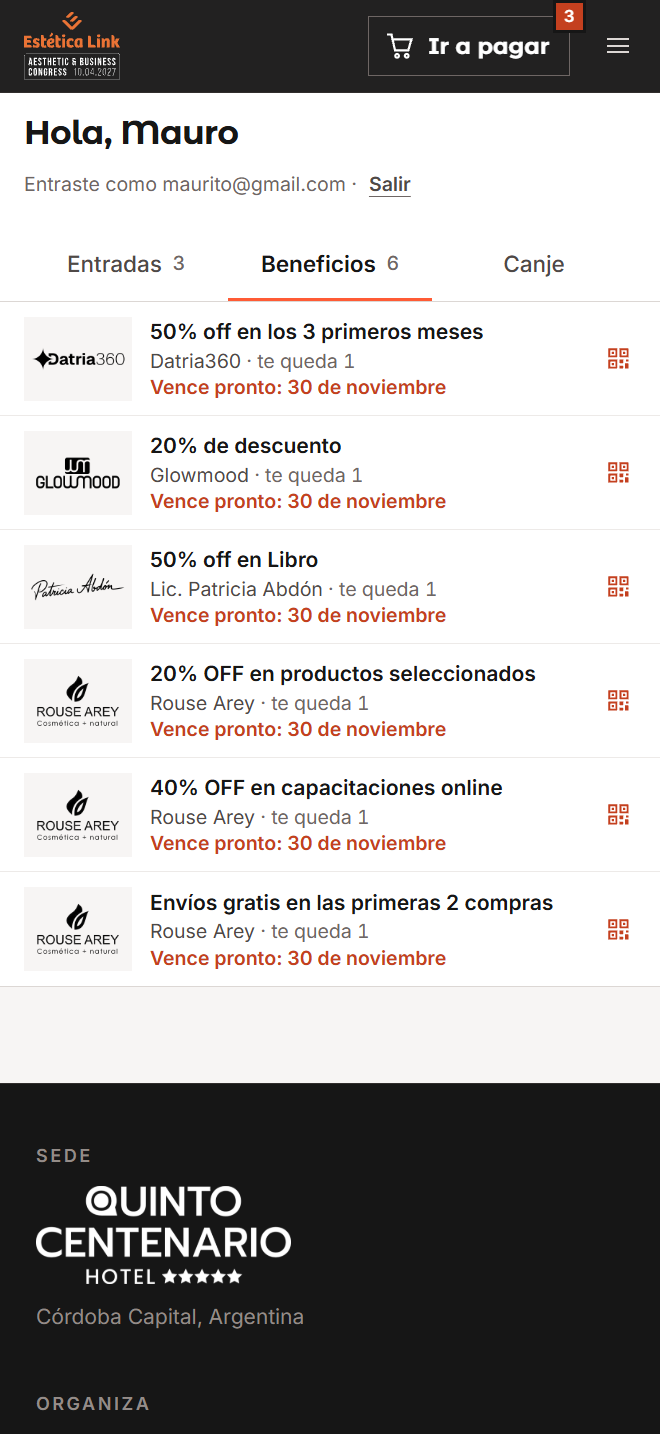
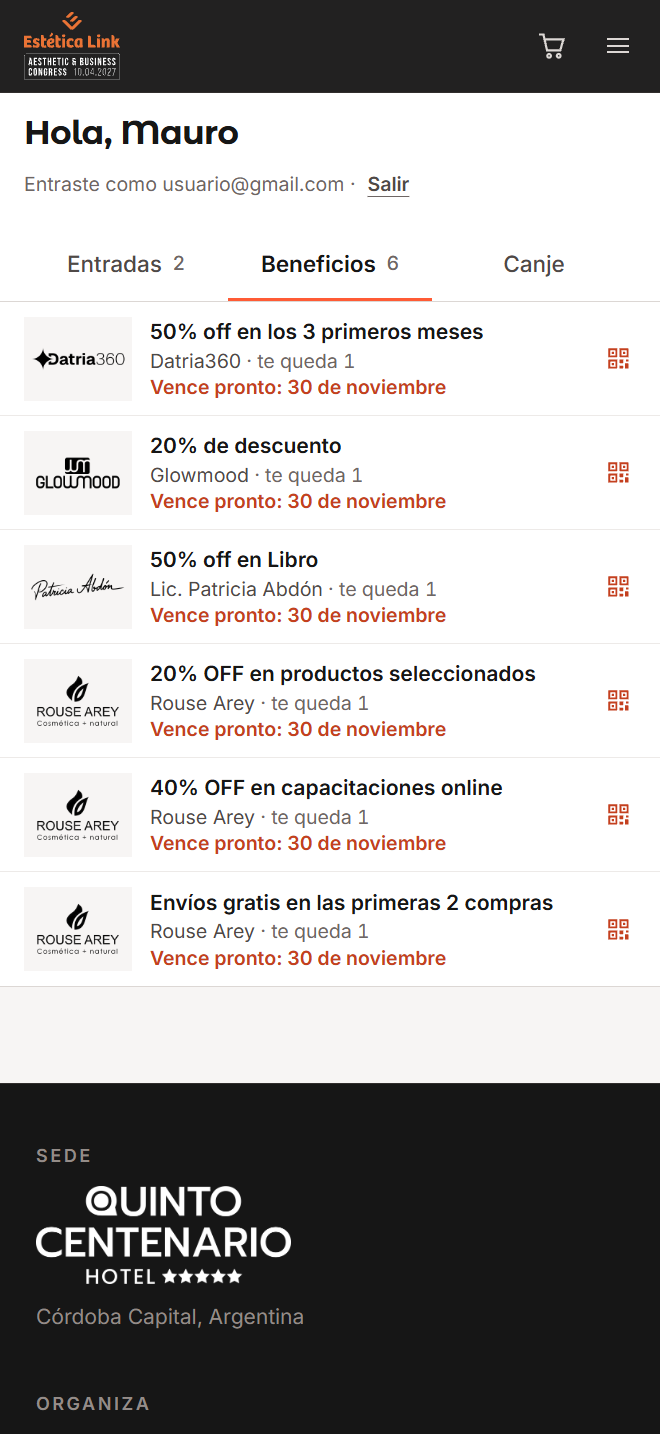
Portrait in the last 60 s step; new Estética Link benefits screenshots

Changed region(s): [[0.6061, 0.0, 0.8788, 0.0614], [0.2424, 0.1227, 0.5152, 0.1534], [0.5455, 0.1227, 0.6364, 0.1534]]

diff --git a/public/site.js b/public/site.js
@@ -313,7 +313,7 @@
       .concat([[t('bld.label'), t('bld.h2'), t('bld.sub'), '→ ' + (MI.building || []).join(' · ')]])
       .concat([[t('hl.range.k'), t('hl.range.h'), t('hl.range.p'), '→ ' + t('hero.avail')]]);
     steps.innerHTML = S.map(([k, h, p, ph], i) => `<div class="hlo-step${i ? '' : ' on'}"><span class="label">${k}</span><h2${i ? '' : ' id="hlo-t"'}>${h}</h2>${p ? `<p>${p}</p>` : ''}<span class="ph">${ph}</span></div>`).join('')
-      + `<div class="hlo-step"><span class="label">${t('hl.next')}</span><h2>${t('cta.h')}</h2><div class="cta-row"><a class="btn-p" href="#contact" data-close>${t('cta.btn')}</a><a class="btn-s" href="#work" data-close>${t('work.all')}</a></div></div>`;
+      + `<div class="hlo-step hlo-end">${MI.portrait ? `<img class="hlo-me" src="${MI.portrait.src}" srcset="${MI.portrait.src} 1x, ${MI.portrait.src2} 2x" width="${MI.portrait.w}" height="${MI.portrait.h}" alt="${t('portrait')}" decoding="async">` : ''}<span class="label">${t('hl.next')}</span><h2>${t('cta.h')}</h2><div class="cta-row"><a class="btn-p" href="#contact" data-close>${t('cta.btn')}</a><a class="btn-s" href="#work" data-close>${t('work.all')}</a></div></div>`;
     steps.querySelectorAll('[data-close]').forEach(a => a.addEventListener('click', closeHl));
   }
   if (document.getElementById('fHl')) {

diff --git a/public/site.css b/public/site.css
@@ -254,6 +254,7 @@ h3 { margin: 0; }
 .hlo-step h2 { font-size: clamp(2rem, 5vw, 4rem); max-width: 18ch; }
 .hlo-step p { margin: 0; color: var(--ink-2); font-size: var(--s-2); max-width: 50ch; }
 .hlo-step .ph { font-family: var(--f-mono); font-size: .85rem; color: var(--accent); }
+.hlo-me { display: block; width: clamp(104px, 12vw, 148px); height: auto; aspect-ratio: 4 / 5; object-fit: cover; border: 1px solid var(--line); border-radius: 6px; background: var(--panel); margin-bottom: 6px; }
 .hlo-step > * { transition: opacity .6s, transform .8s var(--out); }
 .hlo-step:not(.on) > * { opacity: .15; transform: translateY(14px); }
 

diff --git a/DESIGN.md b/DESIGN.md
@@ -405,4 +405,5 @@ Motion is the brand, so it has to feel smooth on a mid-range Android phone, not 
 - 2026-11-16 — Estética Link: Branding added to What I did; the Result now lists five outcomes (no plugin costs or dependencies, client-owned CRM data, a full CMS, an automated CRM + AI agent across the event, time back for the organizer). Project pages accept an optional `resultItems` list under the result line.
 - 2026-11-16 — Datria360 Result lists six traction numbers (99.6% attendance on closed appointments, 1,000+ appointments, ARS 70M+ billed, 450+ patients, 28% returning, 12%+ bookings outside business hours).
 - 2026-11-16 — Contact email is now hi@mauroiman.com (was a personal Gmail), set once in `site.yaml` and used by every mailto and copy button.
+- 2026-11-16 — 60 s highlights: the last step (“Let’s build something people are drawn to.”) shows a small portrait above the label (104–148 px wide, 4:5, same photo and alt as About). Estética Link benefits screenshots replaced so they no longer show a personal email.
 - 2026-11-15 — Estética Link: two videos in its page (the new site’s hero intro, 1920×1080, and the animated Three.js attendee credential, 1080×1920 as a phone video), as WebM (9.7 MB and 7.1 MB, converted by Mauro from the 15.7 MB and 21.9 MB MP4s). Projects can now rename the video section with `videoLabel` / `videoTitle` (Estética Link: “Video · The site in motion.”). Later the same day: a third video (add-to-cart animation, 1280×720) and a 5-screen gallery (passes, speakers, expo, attendee tickets, sponsor benefits).
